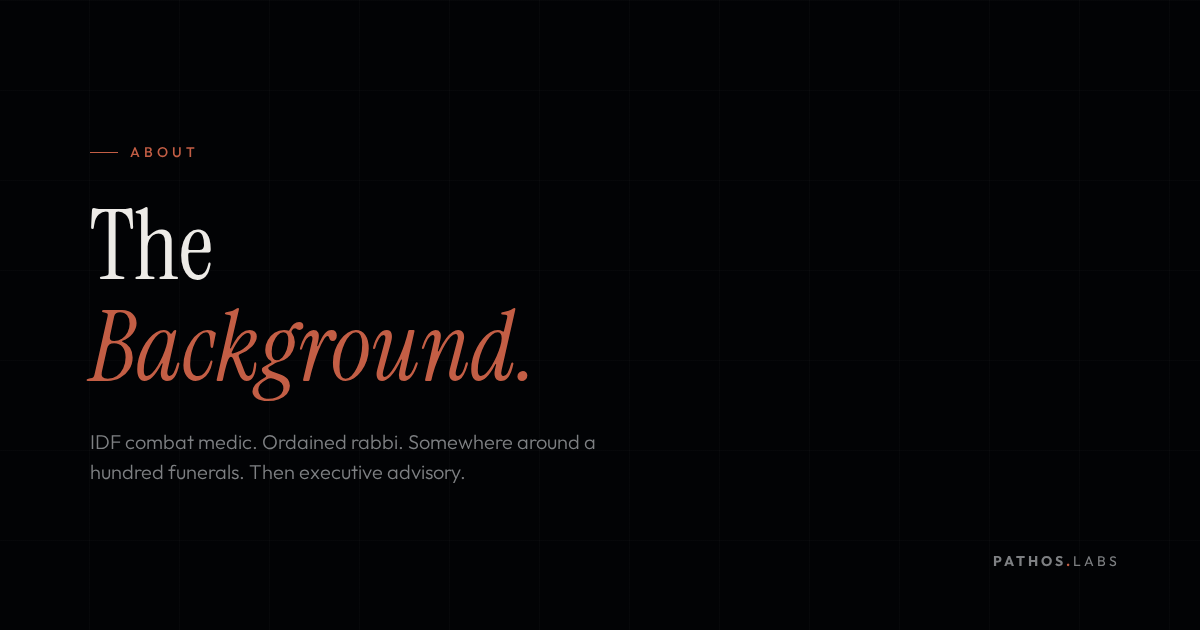
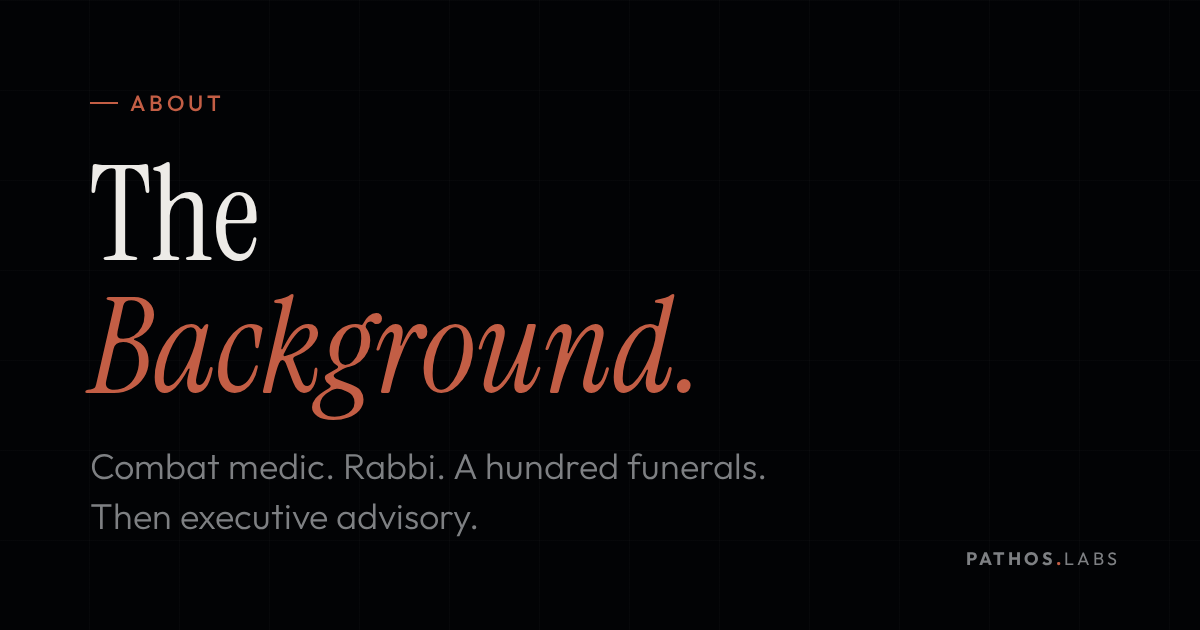
Redesign OG images: larger text, consistent layout across all pages
- All h1 text bumped to 120-148px (was 96-108px) — readable at preview size
- Subtitles bumped to 36px (was 20-22px)
- Eyebrows bumped to 22px (was 14px)
- Newsletter OG now matches home/about/writing left-aligned layout
- Shorter, punchier subtitle copy for small-format legibility

diff --git a/assets/og-templates/og-newsletter.html b/assets/og-templates/og-newsletter.html
@@ -12,8 +12,8 @@
   body {
     width: 1200px; height: 630px;
     background: oklch(10% 0.008 260);
-    display: flex; align-items: center; justify-content: center;
-    overflow: hidden; position: relative; text-align: center;
+    display: flex; align-items: center;
+    overflow: hidden; position: relative;
   }
   body::before {
     content: ''; position: absolute; inset: 0;
@@ -21,33 +21,32 @@
       repeating-linear-gradient(0deg, transparent, transparent 89px, oklch(94% 0 0 / 0.02) 89px, oklch(94% 0 0 / 0.02) 90px),
       repeating-linear-gradient(90deg, transparent, transparent 89px, oklch(94% 0 0 / 0.02) 89px, oklch(94% 0 0 / 0.02) 90px);
   }
-  .content {
-    position: relative; z-index: 1;
-    width: 800px; max-width: 800px;
-    display: flex; flex-direction: column;
-    align-items: center; justify-content: center;
+  .content { position: relative; z-index: 1; padding: 80px 90px; }
+  .eyebrow {
+    font-family: 'Outfit', sans-serif;
+    font-weight: 500; font-size: 22px;
+    letter-spacing: 4px; text-transform: uppercase;
+    color: oklch(60% 0.135 35);
+    margin-bottom: 32px;
+    display: flex; align-items: center; gap: 12px;
   }
+  .eyebrow::before { content: ''; width: 28px; height: 2px; background: oklch(60% 0.135 35); }
   h1 {
     font-family: 'Instrument Serif', serif;
     font-style: italic;
-    font-weight: 400; font-size: 82px;
-    line-height: 1.1; color: oklch(94% 0.005 80);
-    margin-bottom: 24px;
-    text-align: center; width: 100%;
+    font-weight: 400; font-size: 120px;
+    line-height: 1.0; color: oklch(94% 0.005 80);
   }
   .sub {
     font-family: 'Outfit', sans-serif;
-    font-weight: 300; font-size: 21px;
+    font-weight: 300; font-size: 36px;
     color: oklch(60% 0.005 260);
-    line-height: 1.5;
-    text-align: center; width: 100%;
-    max-width: 600px;
+    margin-top: 28px; max-width: 700px; line-height: 1.4;
   }
   .wordmark {
-    position: absolute; bottom: 60px; left: 50%;
-    transform: translateX(-50%);
+    position: absolute; bottom: 60px; right: 80px;
     font-family: 'Outfit', sans-serif;
-    font-weight: 700; font-size: 14px;
+    font-weight: 700; font-size: 18px;
     letter-spacing: 3px; text-transform: uppercase;
     color: oklch(60% 0.005 260);
   }
@@ -57,8 +56,9 @@
 </head>
 <body>
   <div class="content">
+    <div class="eyebrow">Weekly Newsletter</div>
     <h1>Presence Under<br>Pressure.</h1>
-    <p class="sub">A weekly letter on communication, human performance, and what it actually takes to get unstuck.</p>
+    <p class="sub">Communication, performance, and the internal blockers that keep capable people stuck.</p>
   </div>
   <div class="wordmark">PATHOS<span class="dot">.</span><span class="labs">LABS</span></div>
 </body>

diff --git a/assets/og-templates/og-home.html b/assets/og-templates/og-home.html
@@ -16,10 +16,8 @@
     display: flex; align-items: center;
     overflow: hidden; position: relative;
   }
-  /* Grid lines */
   body::before {
-    content: '';
-    position: absolute; inset: 0;
+    content: ''; position: absolute; inset: 0;
     background:
       repeating-linear-gradient(0deg, transparent, transparent 89px, oklch(94% 0 0 / 0.02) 89px, oklch(94% 0 0 / 0.02) 90px),
       repeating-linear-gradient(90deg, transparent, transparent 89px, oklch(94% 0 0 / 0.02) 89px, oklch(94% 0 0 / 0.02) 90px);
@@ -31,19 +29,19 @@
   }
   .eyebrow {
     font-family: 'Outfit', sans-serif;
-    font-weight: 500; font-size: 14px;
+    font-weight: 500; font-size: 22px;
     letter-spacing: 4px; text-transform: uppercase;
     color: oklch(60% 0.135 35);
-    margin-bottom: 36px;
+    margin-bottom: 32px;
     display: flex; align-items: center; gap: 12px;
   }
   .eyebrow::before {
-    content: ''; width: 28px; height: 1px;
+    content: ''; width: 28px; height: 2px;
     background: oklch(60% 0.135 35);
   }
   h1 {
     font-family: 'Instrument Serif', serif;
-    font-weight: 400; font-size: 108px;
+    font-weight: 400; font-size: 132px;
     line-height: 0.92; color: oklch(94% 0.005 80);
   }
   h1 em {
@@ -52,15 +50,15 @@
   }
   .sub {
     font-family: 'Outfit', sans-serif;
-    font-weight: 300; font-size: 22px;
+    font-weight: 300; font-size: 36px;
     color: oklch(60% 0.005 260);
-    margin-top: 32px; max-width: 600px;
-    line-height: 1.5;
+    margin-top: 32px; max-width: 700px;
+    line-height: 1.4;
   }
   .wordmark {
     position: absolute; bottom: 60px; right: 80px;
     font-family: 'Outfit', sans-serif;
-    font-weight: 700; font-size: 14px;
+    font-weight: 700; font-size: 18px;
     letter-spacing: 3px; text-transform: uppercase;
     color: oklch(60% 0.005 260);
   }
@@ -72,7 +70,7 @@
   <div class="content">
     <div class="eyebrow">Executive Advisory</div>
     <h1>Capable.<br><em>Underleveraged.</em></h1>
-    <p class="sub">The gap is never ability. It's perception, communication, or structure. We close it.</p>
+    <p class="sub">We close the gap between ability and perception.</p>
   </div>
   <div class="wordmark">PATHOS<span class="dot">.</span><span class="labs">LABS</span></div>
 </body>

diff --git a/assets/og-templates/og-about.html b/assets/og-templates/og-about.html
@@ -24,29 +24,29 @@
   .content { position: relative; z-index: 1; padding: 80px 90px; }
   .eyebrow {
     font-family: 'Outfit', sans-serif;
-    font-weight: 500; font-size: 14px;
+    font-weight: 500; font-size: 22px;
     letter-spacing: 4px; text-transform: uppercase;
     color: oklch(60% 0.135 35);
-    margin-bottom: 36px;
+    margin-bottom: 32px;
     display: flex; align-items: center; gap: 12px;
   }
-  .eyebrow::before { content: ''; width: 28px; height: 1px; background: oklch(60% 0.135 35); }
+  .eyebrow::before { content: ''; width: 28px; height: 2px; background: oklch(60% 0.135 35); }
   h1 {
     font-family: 'Instrument Serif', serif;
-    font-weight: 400; font-size: 96px;
-    line-height: 1.05; color: oklch(94% 0.005 80);
+    font-weight: 400; font-size: 132px;
+    line-height: 1.0; color: oklch(94% 0.005 80);
   }
   h1 em { font-style: italic; color: oklch(60% 0.135 35); }
   .sub {
     font-family: 'Outfit', sans-serif;
-    font-weight: 300; font-size: 20px;
+    font-weight: 300; font-size: 36px;
     color: oklch(60% 0.005 260);
-    margin-top: 28px; max-width: 560px; line-height: 1.5;
+    margin-top: 28px; max-width: 700px; line-height: 1.4;
   }
   .wordmark {
     position: absolute; bottom: 60px; right: 80px;
     font-family: 'Outfit', sans-serif;
-    font-weight: 700; font-size: 14px;
+    font-weight: 700; font-size: 18px;
     letter-spacing: 3px; text-transform: uppercase;
     color: oklch(60% 0.005 260);
   }
@@ -58,7 +58,7 @@
   <div class="content">
     <div class="eyebrow">About</div>
     <h1>The<br><em>Background.</em></h1>
-    <p class="sub">IDF combat medic. Ordained rabbi. Somewhere around a hundred funerals. Then executive advisory.</p>
+    <p class="sub">Combat medic. Rabbi. A hundred funerals.<br>Then executive advisory.</p>
   </div>
   <div class="wordmark">PATHOS<span class="dot">.</span><span class="labs">LABS</span></div>
 </body>

diff --git a/assets/og-templates/og-writing.html b/assets/og-templates/og-writing.html
@@ -24,29 +24,29 @@
   .content { position: relative; z-index: 1; padding: 80px 90px; }
   .eyebrow {
     font-family: 'Outfit', sans-serif;
-    font-weight: 500; font-size: 14px;
+    font-weight: 500; font-size: 22px;
     letter-spacing: 4px; text-transform: uppercase;
     color: oklch(60% 0.135 35);
-    margin-bottom: 36px;
+    margin-bottom: 32px;
     display: flex; align-items: center; gap: 12px;
   }
-  .eyebrow::before { content: ''; width: 28px; height: 1px; background: oklch(60% 0.135 35); }
+  .eyebrow::before { content: ''; width: 28px; height: 2px; background: oklch(60% 0.135 35); }
   h1 {
     font-family: 'Instrument Serif', serif;
     font-style: italic;
-    font-weight: 400; font-size: 96px;
-    line-height: 1.05; color: oklch(94% 0.005 80);
+    font-weight: 400; font-size: 148px;
+    line-height: 1.0; color: oklch(94% 0.005 80);
   }
   .sub {
     font-family: 'Outfit', sans-serif;
-    font-weight: 300; font-size: 20px;
+    font-weight: 300; font-size: 36px;
     color: oklch(60% 0.005 260);
-    margin-top: 28px; line-height: 1.5;
+    margin-top: 28px; line-height: 1.4;
   }
   .wordmark {
     position: absolute; bottom: 60px; right: 80px;
     font-family: 'Outfit', sans-serif;
-    font-weight: 700; font-size: 14px;
+    font-weight: 700; font-size: 18px;
     letter-spacing: 3px; text-transform: uppercase;
     color: oklch(60% 0.005 260);
   }
@@ -56,9 +56,9 @@
 </head>
 <body>
   <div class="content">
-    <div class="eyebrow">Blog, Articles &amp; Research</div>
+    <div class="eyebrow">Research &amp; Writing</div>
     <h1>Writing.</h1>
-    <p class="sub">On communication, perception, human performance, and closing the gap.</p>
+    <p class="sub">Communication, perception, and human performance.</p>
   </div>
   <div class="wordmark">PATHOS<span class="dot">.</span><span class="labs">LABS</span></div>
 </body>
